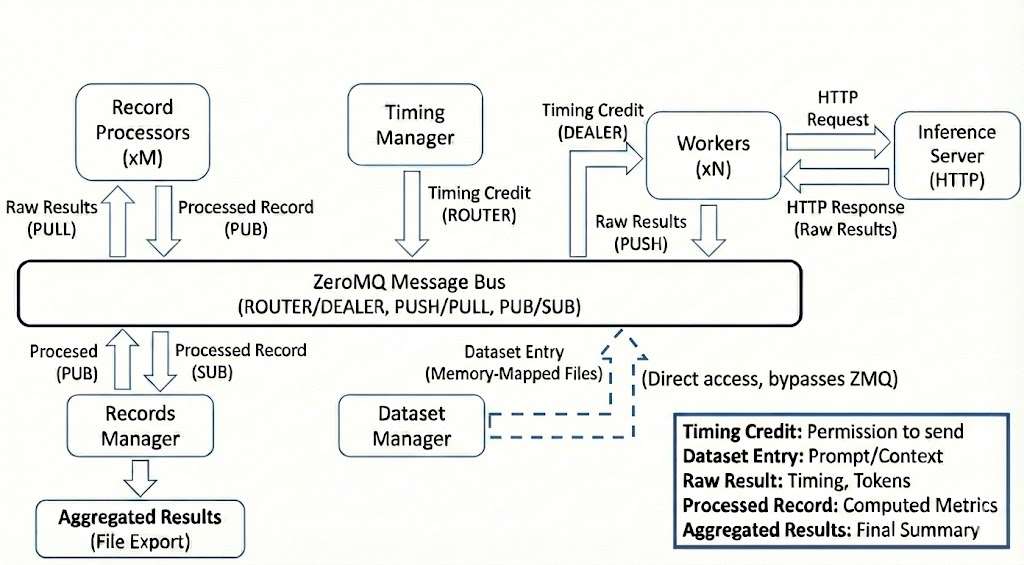
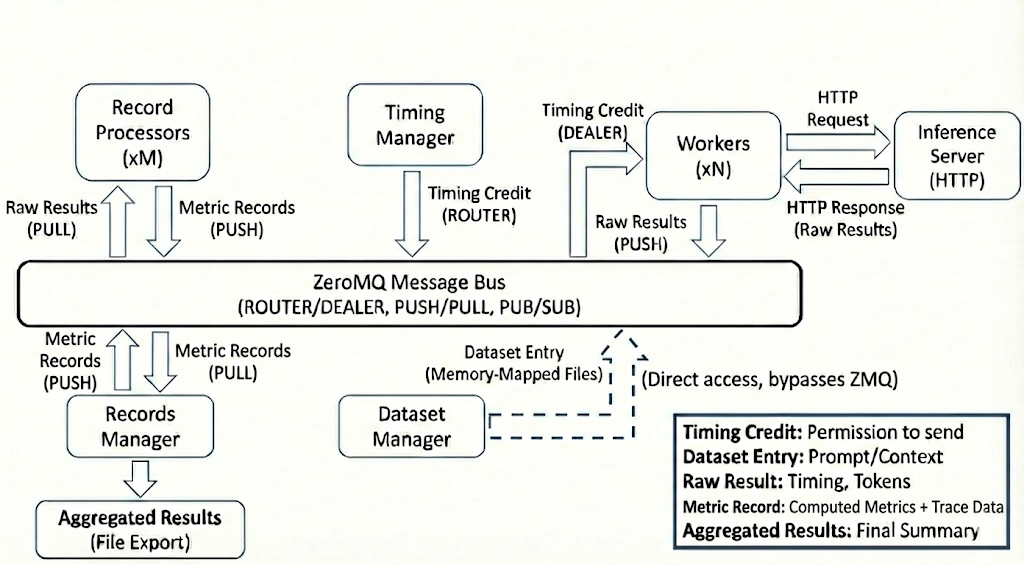
fix: fix comments

diff --git a/docs/architecture.md b/docs/architecture.md
@@ -73,19 +73,6 @@ The Worker Manager orchestrates and manages the pool of worker processes that ex
 - Handling worker lifecycle events, such as startup, shutdown, and error recovery
 - Managing worker pool size based on benchmarking requirements
 
-### Workers
-
-Workers execute individual benchmarking tasks. Each worker operates as a process that sends requests to the inference server, collects responses, and records performance metrics.
-
-**Key Responsibilities:**
-- Receiving timing credits from the Credit Router
-- Accessing dataset via memory-mapped files
-- Formatting the data for the target endpoint
-- Sending requests to the target endpoint according to the specified schedule
-- Recording request and response timestamps
-- Maintaining conversation context for multi-turn conversations
-- Reporting results to the record processors for aggregation and analysis
-
 ### Record Processor
 
 The Record Processor processes and interprets the responses received from the inference server during benchmarking.
@@ -94,7 +81,7 @@ The Record Processor processes and interprets the responses received from the in
 - Parsing raw inference results to extract relevant metrics (latency, output tokens, correctness)
 - Handling different response formats from various model endpoints (OpenAI, vLLM, Triton, custom APIs)
 - Validating and normalizing results to ensure consistency across benchmarking runs
-- Computing metrics derived from individual requests (TTFT, TPOT, E2E latency, throughput)
+- Computing metrics derived from individual requests (TTFT, ITL, E2E latency, throughput)
 - Supporting error detection and handling for malformed or unexpected responses
 - Scales horizontally to handle high-volume metric computation
 
@@ -142,13 +129,8 @@ Workers execute the benchmark workload by sending requests to the inference serv
 2. Access dataset entry via memory-mapped files
 3. Format request for target endpoint (OpenAI, vLLM, etc.)
 4. Send HTTP request to inference server
-5. Collect response timing (TTFT, TPOT, E2E latency) and token counts
-6. Report raw results to Record Processor
-
-**State Management:**
-- Maintains conversation context for multi-turn conversations
-- Tracks token counts for throughput calculations
-- Stateless between workers
+5. Parse streaming responses and capture raw per-chunk timestamps
+6. Report raw timing data and responses to Record Processor
 
 **Performance Optimizations:**
 - Async I/O for non-blocking HTTP calls
@@ -169,7 +151,7 @@ The Timing Manager uses a **credit-based flow control system** to precisely cont
 **Flow Control Benefits:**
 - Prevents overwhelming the inference server
 - Enables precise reproduction of load patterns
-- Provides natural backpressure when workers or server slow down
+- Provides natural backpressure when the server slows down
 - Allows accurate measurement without artificial delays
 
 **Credit Distribution:**
@@ -189,7 +171,7 @@ This section describes the end-to-end message flow during a benchmark run, showi
 - **Timing Credit**: Grants permission to send one request
 - **Dataset Entry**: Prompt and conversation context
 - **Raw Result**: Request timing, tokens, response text
-- **Processed Record**: Computed metrics (latency, throughput, etc.)
+- **Metric Record**: Per-request computed metrics plus trace data
 - **Aggregated Results**: Final performance summary and per-request details
 
 **Message Flow:**
@@ -197,45 +179,8 @@ This section describes the end-to-end message flow during a benchmark run, showi
 2. Workers access dataset entries via memory-mapped files
 3. Workers send requests to Inference Server (external HTTP)
 4. Workers push raw results to Record Processors
-5. Record Processors publish processed records to Records Manager
+5. Record Processors push metric records to Records Manager
 6. Records Manager aggregates and exports final results
-
-**Flow Control:**
-- Credit-based system prevents overwhelming the inference server
-- Router controls which worker receives each credit based on load and sticky sessions
-- Backpressure automatically applies when components slow down
-- Asynchronous messaging ensures workers spend maximum time on I/O
-
-### Metric Computation
-
-Record Processors transform raw timing data into meaningful performance metrics. This computation happens in parallel across multiple processor instances for scalability.
-
-**Core Metrics Computed:**
-- **TTFT (Time to First Token)**: Time from request start to first token received
-- **TPOT (Time per Output Token)**: Average time between successive output tokens
-- **E2E Latency**: Total time from request start to completion
-- **Input/Output Token Counts**: For throughput calculations
-- **Request Success/Failure**: Error detection and categorization
-
-**Processing Pipeline:**
-1. Receive raw result from Worker (timestamps, tokens, response text)
-2. Parse response format (OpenAI, vLLM, etc.)
-3. Extract timing information and token counts
-4. Compute derived metrics (TTFT, TPOT, throughput)
-5. Validate and normalize results
-6. Publish processed record to Records Manager
-
-**Scalability:**
-- Multiple Record Processor instances run in parallel
-- Each processor handles a stream of raw results independently
-- No coordination required between processors
-- Scales linearly with the number of workers
-
-**Error Handling:**
-- Detects malformed responses
-- Categorizes errors (timeout, invalid format, server error)
-- Includes error details in processed records
-- Enables debugging and analysis of failure modes
 
 ## Communication Architecture
 
@@ -270,23 +215,10 @@ AIPerf uses **ZMQ proxies** for message routing between services and workers:
 
 ## Design Principles
 
-### Separation of Concerns
-- Control plane handles orchestration, scheduling, and data management
-- Workers focus solely on request execution and basic data collection
-- Record processors handle compute-intensive metric calculations
-- Clean interfaces between components via message bus
-
-### Scalability
-- Workers scale horizontally for load generation
-- Record processors scale horizontally for metric computation
-- Credit-based flow control prevents overwhelming the system
-- Async I/O throughout for maximum efficiency
-
-### Extensibility
-- Plugin system for datasets, endpoints, transports, metrics
-- Decorator-based factory registration for easy additions
-- Support for custom formats and protocols
-- Modular architecture allows component replacement
+AIPerf is built on three core principles:
+- **Separation of Concerns**: Control plane orchestrates, workers execute, record processors compute metrics
+- **Scalability**: Horizontal scaling for workers and processors with credit-based flow control
+- **Extensibility**: Plugin system for datasets, endpoints, transports, and metrics
 
 ## Deployment Modes
 
